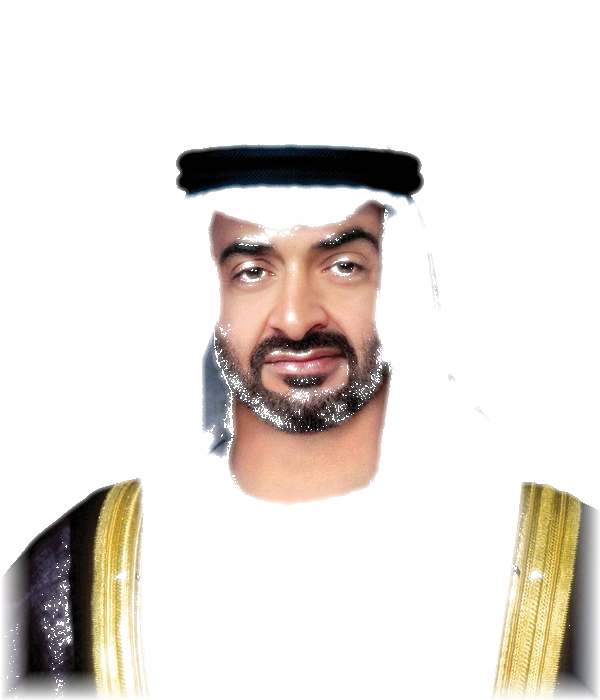
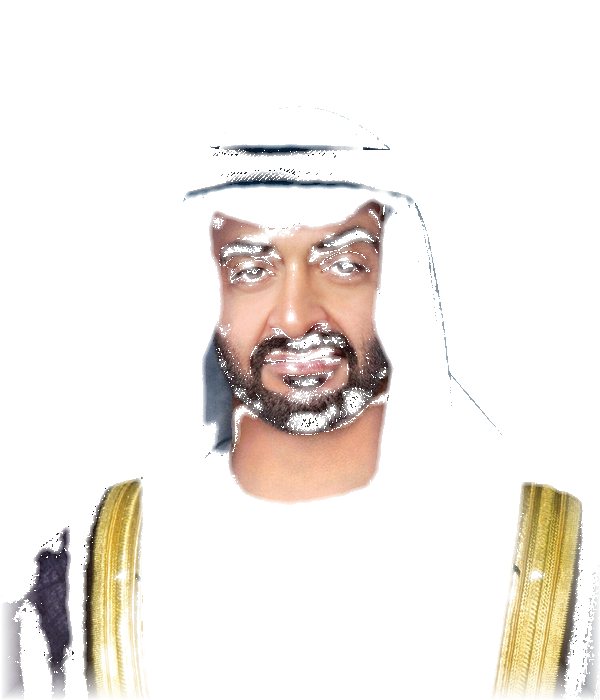
fix: remove black box behind Sheikh - flood fill bg removal + no glow div + natural blend

diff --git a/scripts/process-sheikh-v3.ts b/scripts/process-sheikh-v3.ts
@@ -1,0 +1,200 @@
+/**
+ * Final Sheikh Zayed processing v3:
+ * - Use chromakey approach: sample background from corners
+ * - Remove ALL background (gray, dark shadows, flag colors)
+ * - Keep ONLY: skin, white clothing, gold trim, black bisht (but NOT dark background)
+ * - Heavy feathering for seamless blending
+ * - The key issue: distinguish dark bisht (keep) from dark background (remove)
+ *   Solution: dark bisht is surrounded by gold trim and skin, while dark background
+ *   is surrounded by transparent/light areas. Use proximity-based keep.
+ */
+import sharp from 'sharp'
+import path from 'path'
+import fs from 'fs'
+
+const SOURCE = '/home/z/my-project/upload/Sheikh Zayed MBZ.png'
+const OUTPUT = path.join(process.cwd(), 'public', 'sheikh-zayed-clean.png')
+
+async function main() {
+  // Resize for web
+  const { data, info } = await sharp(SOURCE)
+    .resize(600, 700, { fit: 'cover', position: 'top' })
+    .ensureAlpha()
+    .raw()
+    .toBuffer({ resolveWithObject: true })
+
+  const { width, height, channels } = info
+  const out = Buffer.alloc(width * height * channels)
+
+  // First pass: identify background vs foreground
+  const isBackground = new Uint8Array(width * height)
+
+  for (let i = 0; i < width * height; i++) {
+    const r = data[i * channels]
+    const g = data[i * channels + 1]
+    const b = data[i * channels + 2]
+    const a = data[i * channels + 3]
+
+    const max = Math.max(r, g, b)
+    const min = Math.min(r, g, b)
+    const sat = max - min
+
+    // Light gray background (studio backdrop)
+    const isLightBg = max > 160 && sat < 50 && min > 130
+
+    // Transparent (original alpha)
+    const isTransparent = a < 50
+
+    // Flag colors
+    const isFlagRed = r > 120 && g < 90 && b < 90 && sat > 40
+    const isFlagGreen = g > 90 && r < 100 && b < 100 && sat > 30
+    const isFlagWhite = max > 200 && sat < 25
+
+    // Very dark background (shadows on backdrop)
+    const isDarkBg = max < 50 && min < 30 && sat < 15
+
+    isBackground[i] = (isLightBg || isTransparent || isFlagRed || isFlagGreen || isFlagWhite || isDarkBg) ? 1 : 0
+  }
+
+  // Second pass: flood fill from edges to find connected background regions
+  // Mark ALL background-connected dark pixels as background too
+  const visited = new Uint8Array(width * height)
+  const queue: number[] = []
+
+  // Start from all edge pixels
+  for (let x = 0; x < width; x++) {
+    if (isBackground[x]) { queue.push(x); visited[x] = 1; }
+    const bottomIdx = (height - 1) * width + x
+    if (isBackground[bottomIdx]) { queue.push(bottomIdx); visited[bottomIdx] = 1; }
+  }
+  for (let y = 0; y < height; y++) {
+    const leftIdx = y * width
+    if (isBackground[leftIdx]) { queue.push(leftIdx); visited[leftIdx] = 1; }
+    const rightIdx = y * width + width - 1
+    if (isBackground[rightIdx]) { queue.push(rightIdx); visited[rightIdx] = 1; }
+  }
+
+  // BFS flood fill — expand background to nearby dark pixels
+  while (queue.length > 0) {
+    const idx = queue.pop()!
+    const x = idx % width
+    const y = Math.floor(idx / width)
+
+    const neighbors = [
+      [x - 1, y], [x + 1, y], [x, y - 1], [x, y + 1],
+    ]
+
+    for (const [nx, ny] of neighbors) {
+      if (nx < 0 || nx >= width || ny < 0 || ny >= height) continue
+      const nIdx = ny * width + nx
+      if (visited[nIdx]) continue
+
+      const nr = data[nIdx * channels]
+      const ng = data[nIdx * channels + 1]
+      const nb = data[nIdx * channels + 2]
+      const na = data[nIdx * channels + 3]
+      const nMax = Math.max(nr, ng, nb)
+      const nMin = Math.min(nr, ng, nb)
+      const nSat = nMax - nMin
+
+      // If neighbor is background or dark and not clearly part of the figure
+      if (isBackground[nIdx] || (nMax < 60 && nSat < 20 && na < 100)) {
+        visited[nIdx] = 1
+        isBackground[nIdx] = 1
+        queue.push(nIdx)
+      }
+    }
+  }
+
+  // Third pass: create output — keep only non-background pixels
+  for (let i = 0; i < width * height; i++) {
+    if (!isBackground[i]) {
+      out[i * channels] = data[i * channels]
+      out[i * channels + 1] = data[i * channels + 1]
+      out[i * channels + 2] = data[i * channels + 2]
+      out[i * channels + 3] = 255
+    } else {
+      out[i * channels + 3] = 0
+    }
+  }
+
+  // Fourth pass: heavy feathering — any opaque pixel next to transparent gets alpha gradient
+  for (let pass = 0; pass < 3; pass++) {
+    const newAlpha = Buffer.alloc(width * height)
+    for (let y = 0; y < height; y++) {
+      for (let x = 0; x < width; x++) {
+        const idx = y * width + x
+        const ci = idx * channels
+        if (out[ci + 3] === 0) {
+          newAlpha[idx] = 0
+          continue
+        }
+
+        // Count transparent neighbors
+        let transparentCount = 0
+        let totalCount = 0
+        for (let dy = -4; dy <= 4; dy++) {
+          for (let dx = -4; dx <= 4; dx++) {
+            const nx = x + dx
+            const ny = y + dy
+            if (nx < 0 || nx >= width || ny < 0 || ny >= height) continue
+            totalCount++
+            const ni = (ny * width + nx) * channels
+            if (out[ni + 3] === 0) transparentCount++
+          }
+        }
+
+        const ratio = transparentCount / totalCount
+        if (ratio > 0.1) {
+          newAlpha[idx] = Math.round(255 * (1 - ratio * 1.5))
+        } else {
+          newAlpha[idx] = 255
+        }
+      }
+    }
+
+    // Apply new alpha
+    for (let i = 0; i < width * height; i++) {
+      out[i * channels + 3] = Math.min(out[i * channels + 3], newAlpha[i])
+    }
+  }
+
+  // Edge fade
+  const fadeWidth = 40
+  for (let y = 0; y < height; y++) {
+    for (let x = 0; x < width; x++) {
+      const i = (y * width + x) * channels
+      if (out[i + 3] > 0) {
+        if (x < fadeWidth) out[i + 3] = Math.min(out[i + 3], Math.round(255 * (x / fadeWidth)))
+        if (x > width - fadeWidth) out[i + 3] = Math.min(out[i + 3], Math.round(255 * ((width - x) / fadeWidth)))
+        if (y > height - fadeWidth) out[i + 3] = Math.min(out[i + 3], Math.round(255 * ((height - y) / fadeWidth)))
+        if (y < 15) out[i + 3] = Math.min(out[i + 3], Math.round(255 * (y / 15)))
+      }
+    }
+  }
+
+  await sharp(out, { raw: { width, height, channels } })
+    .png()
+    .toFile(OUTPUT)
+
+  const meta = await sharp(OUTPUT).metadata()
+  console.log(`Generated: ${meta.width}x${meta.height}, alpha: ${meta.hasAlpha}`)
+
+  // Stats
+  const verify = await sharp(OUTPUT).ensureAlpha().raw().toBuffer({ resolveWithObject: true })
+  let opaque = 0, darkOpaque = 0, semi = 0
+  for (let i = 0; i < verify.info.width * verify.info.height; i++) {
+    const a = verify.data[i * verify.info.channels + 3]
+    if (a > 200) {
+      opaque++
+      const r = verify.data[i * verify.info.channels]
+      const g = verify.data[i * verify.info.channels + 1]
+      const b = verify.data[i * verify.info.channels + 2]
+      if (r < 50 && g < 50 && b < 50) darkOpaque++
+    }
+    else if (a > 0) semi++
+  }
+  console.log(`Opaque: ${opaque}, Dark opaque: ${darkOpaque} (${(darkOpaque/opaque*100).toFixed(1)}%), Semi: ${semi}`)
+}
+
+main().catch((err) => { console.error(err); process.exit(1); })

diff --git a/src/components/al-arab/sections/hero.tsx b/src/components/al-arab/sections/hero.tsx
@@ -157,60 +157,39 @@ export function HeroSection() {
       {/* Particle layer */}
       <ParticleField density={120} />
 
-      {/* Sheikh Zayed MBZ portrait — elegant on the LEFT side, behind content */}
+      {/* Sheikh Zayed MBZ portrait — LEFT side, no glow box, natural blend */}
       <motion.div
-        initial={{ opacity: 0, x: -80, scale: 0.9 }}
+        initial={{ opacity: 0, x: -60 }}
         animate={{
           opacity: 1,
           x: 0,
-          scale: 1,
-          y: [0, -6, 0],
+          y: [0, -5, 0],
         }}
         transition={{
-          opacity: { duration: 1.8, delay: 0.6, ease: [0.22, 1, 0.36, 1] },
-          x: { duration: 1.8, delay: 0.6, ease: [0.22, 1, 0.36, 1] },
-          scale: { duration: 1.8, delay: 0.6, ease: [0.22, 1, 0.36, 1] },
+          opacity: { duration: 2, delay: 0.6, ease: [0.22, 1, 0.36, 1] },
+          x: { duration: 2, delay: 0.6, ease: [0.22, 1, 0.36, 1] },
           y: { duration: 8, repeat: Infinity, ease: 'easeInOut', delay: 2 },
         }}
-        className="pointer-events-none absolute left-0 top-8 z-5 hidden md:block lg:left-[2%]"
+        className="pointer-events-none absolute left-0 bottom-0 z-5 hidden md:block lg:left-[1%]"
       >
-        {/* Dual glow: purple + gold behind the Sheikh */}
-        <div
-          className="absolute inset-0 -z-10 blur-[100px]"
-          style={{
-            background:
-              'radial-gradient(ellipse 50% 60% at 50% 35%, rgba(139,92,246,0.25) 0%, rgba(212,175,55,0.08) 40%, transparent 70%)',
-          }}
-        />
-
-        {/* Image container — elegant proportions */}
-        <div className="relative h-[440px] w-[340px] lg:h-[520px] lg:w-[400px]">
+        <div className="relative h-[420px] w-[320px] lg:h-[500px] lg:w-[380px]">
           <Image
             src="/sheikh-zayed-clean.png"
             alt="Sheikh Mohamed bin Zayed Al Nahyan — Visionary Leader"
             fill
             priority
             loading="eager"
-            sizes="(max-width: 1024px) 340px, 400px"
-            className="object-contain object-top drop-shadow-[0_0_40px_rgba(139,92,246,0.20)]"
+            sizes="(max-width: 1024px) 320px, 380px"
+            className="object-contain object-bottom"
             unoptimized
           />
 
-          {/* Gradient blend — right edge merges with dark background */}
+          {/* Soft right-edge blend only — no glow box */}
           <div
-            className="absolute inset-y-0 right-0 w-24"
+            className="absolute inset-y-0 right-0 w-20"
             style={{
               background:
-                'linear-gradient(to left, rgba(10,10,15,0.6) 0%, transparent 100%)',
-            }}
-          />
-
-          {/* Bottom fade for elegant ground effect */}
-          <div
-            className="absolute inset-x-0 bottom-0 h-20"
-            style={{
-              background:
-                'linear-gradient(to top, rgba(10,10,15,0.5) 0%, transparent 100%)',
+                'linear-gradient(to left, rgba(10,10,15,0.5) 0%, transparent 100%)',
             }}
           />
         </div>
